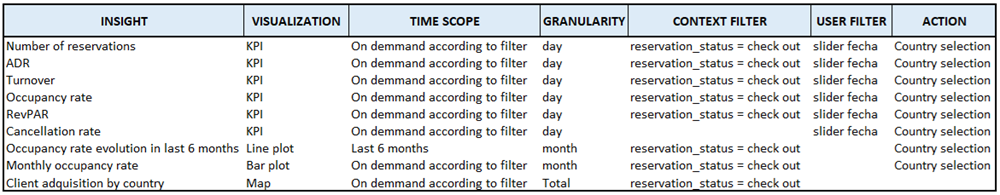
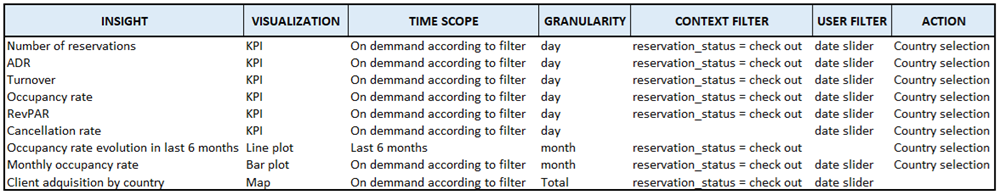
Cambios_p4

diff --git a/content/project/project4/index.md b/content/project/project4/index.md
@@ -6,7 +6,7 @@ tags:
 date: 2024-07-02
 #external_link: http://github.com
 ---
-*Note: The dynamic dashboard can be visualized [here](https://public.tableau.com/views/Dream_resort_hotels_dynamic_dashboard/Dashboard1?:language=es-ES&publish=yes&:sid=&:display_count=n&:origin=viz_share_link).*
+*Note: The final interactive dashboard and its individual sheets are publicly available [here](https://public.tableau.com/views/Dream_resort_hotels_dynamic_dashboard/Dashboard1?:language=es-ES&publish=yes&:sid=&:display_count=n&:origin=viz_share_link).*
 {style="color: #aaaaaa"}
 
 {{< toc >}}
@@ -93,8 +93,28 @@ These calculations will ensure that all necessary metrics are available for the 
 ### 3.4 Dashboard components
 {style="color: #BBDEFC; font-weight: normal"}
 
+In this step, the most appropriate visualizations are chosen for each insight, along with the relevant filters and actions. This information is summarized in the following table.
 
-{{< figure src="/project4/dashboard_components.png" title="." >}}
+{{< figure src="/project4/dashboard_components.png" title="Dashboard components selected for each insight." >}}
+
+<text style='color: #BBDEFC; font-weight: normal;'>KPIs band</text>
+
+A band containing all the KPIs is created and located at the top of the dashboard. These are the most valuable metrics, which are used to present the main performance information of the company.
+
+{{< figure src="/project4/kpis_band.png" title="KPIs band used to present the most relevant information." >}}
+
+<text style='color: #BBDEFC; font-weight: normal;'>Occupancy rate evolution in the last 6 months</text>
+
+The occupancy rate evolution in the last 6 months is presented through a line plot and located under the KPIs band. Notice that this dashboard component is not affected by the date slider, since we are presenting the whole information during the 6 most recent months.
+
+{{< figure src="/project4/kpis_band.png" title="Component for the occupancy rate evolution in the last 6 months." >}}
+
+<text style='color: #BBDEFC; font-weight: normal;'>Monthly occupancy rate</text>
+
+<text style='color: #BBDEFC; font-weight: normal;'>Client adquisition map</text>
+
+
+
 
 ### 3.5 Dashboard design
 {style="color: #BBDEFC; font-weight: normal"}
